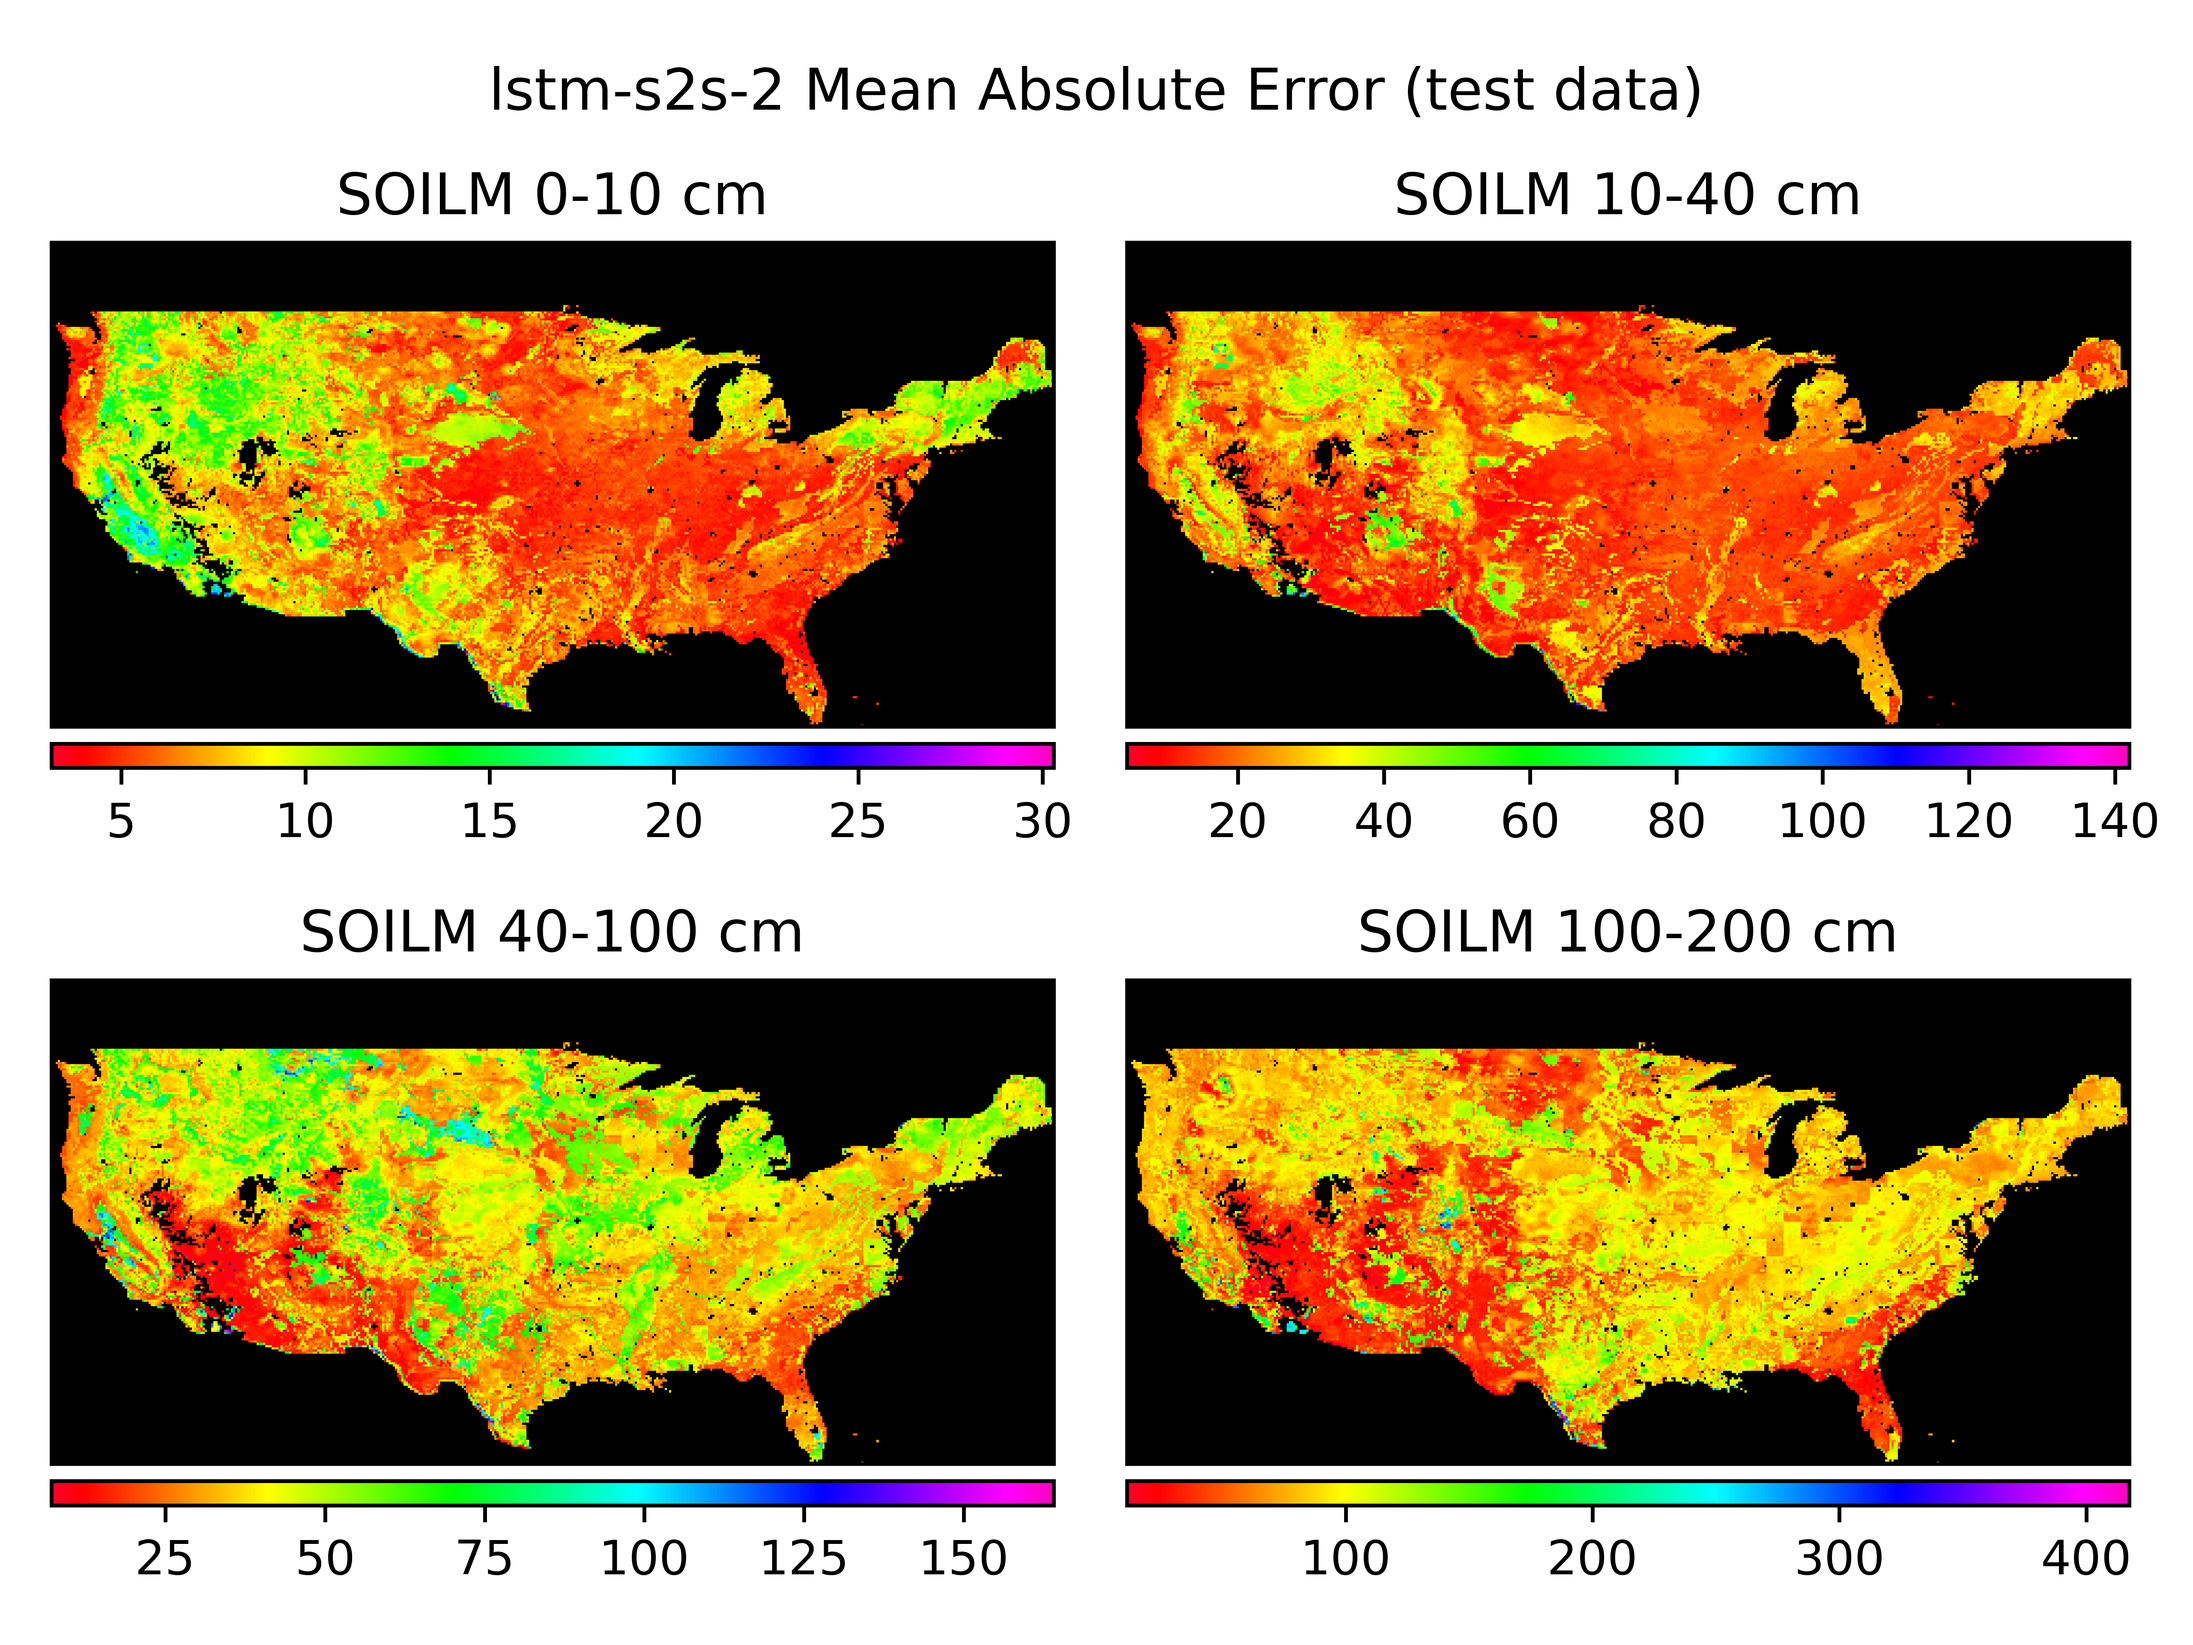
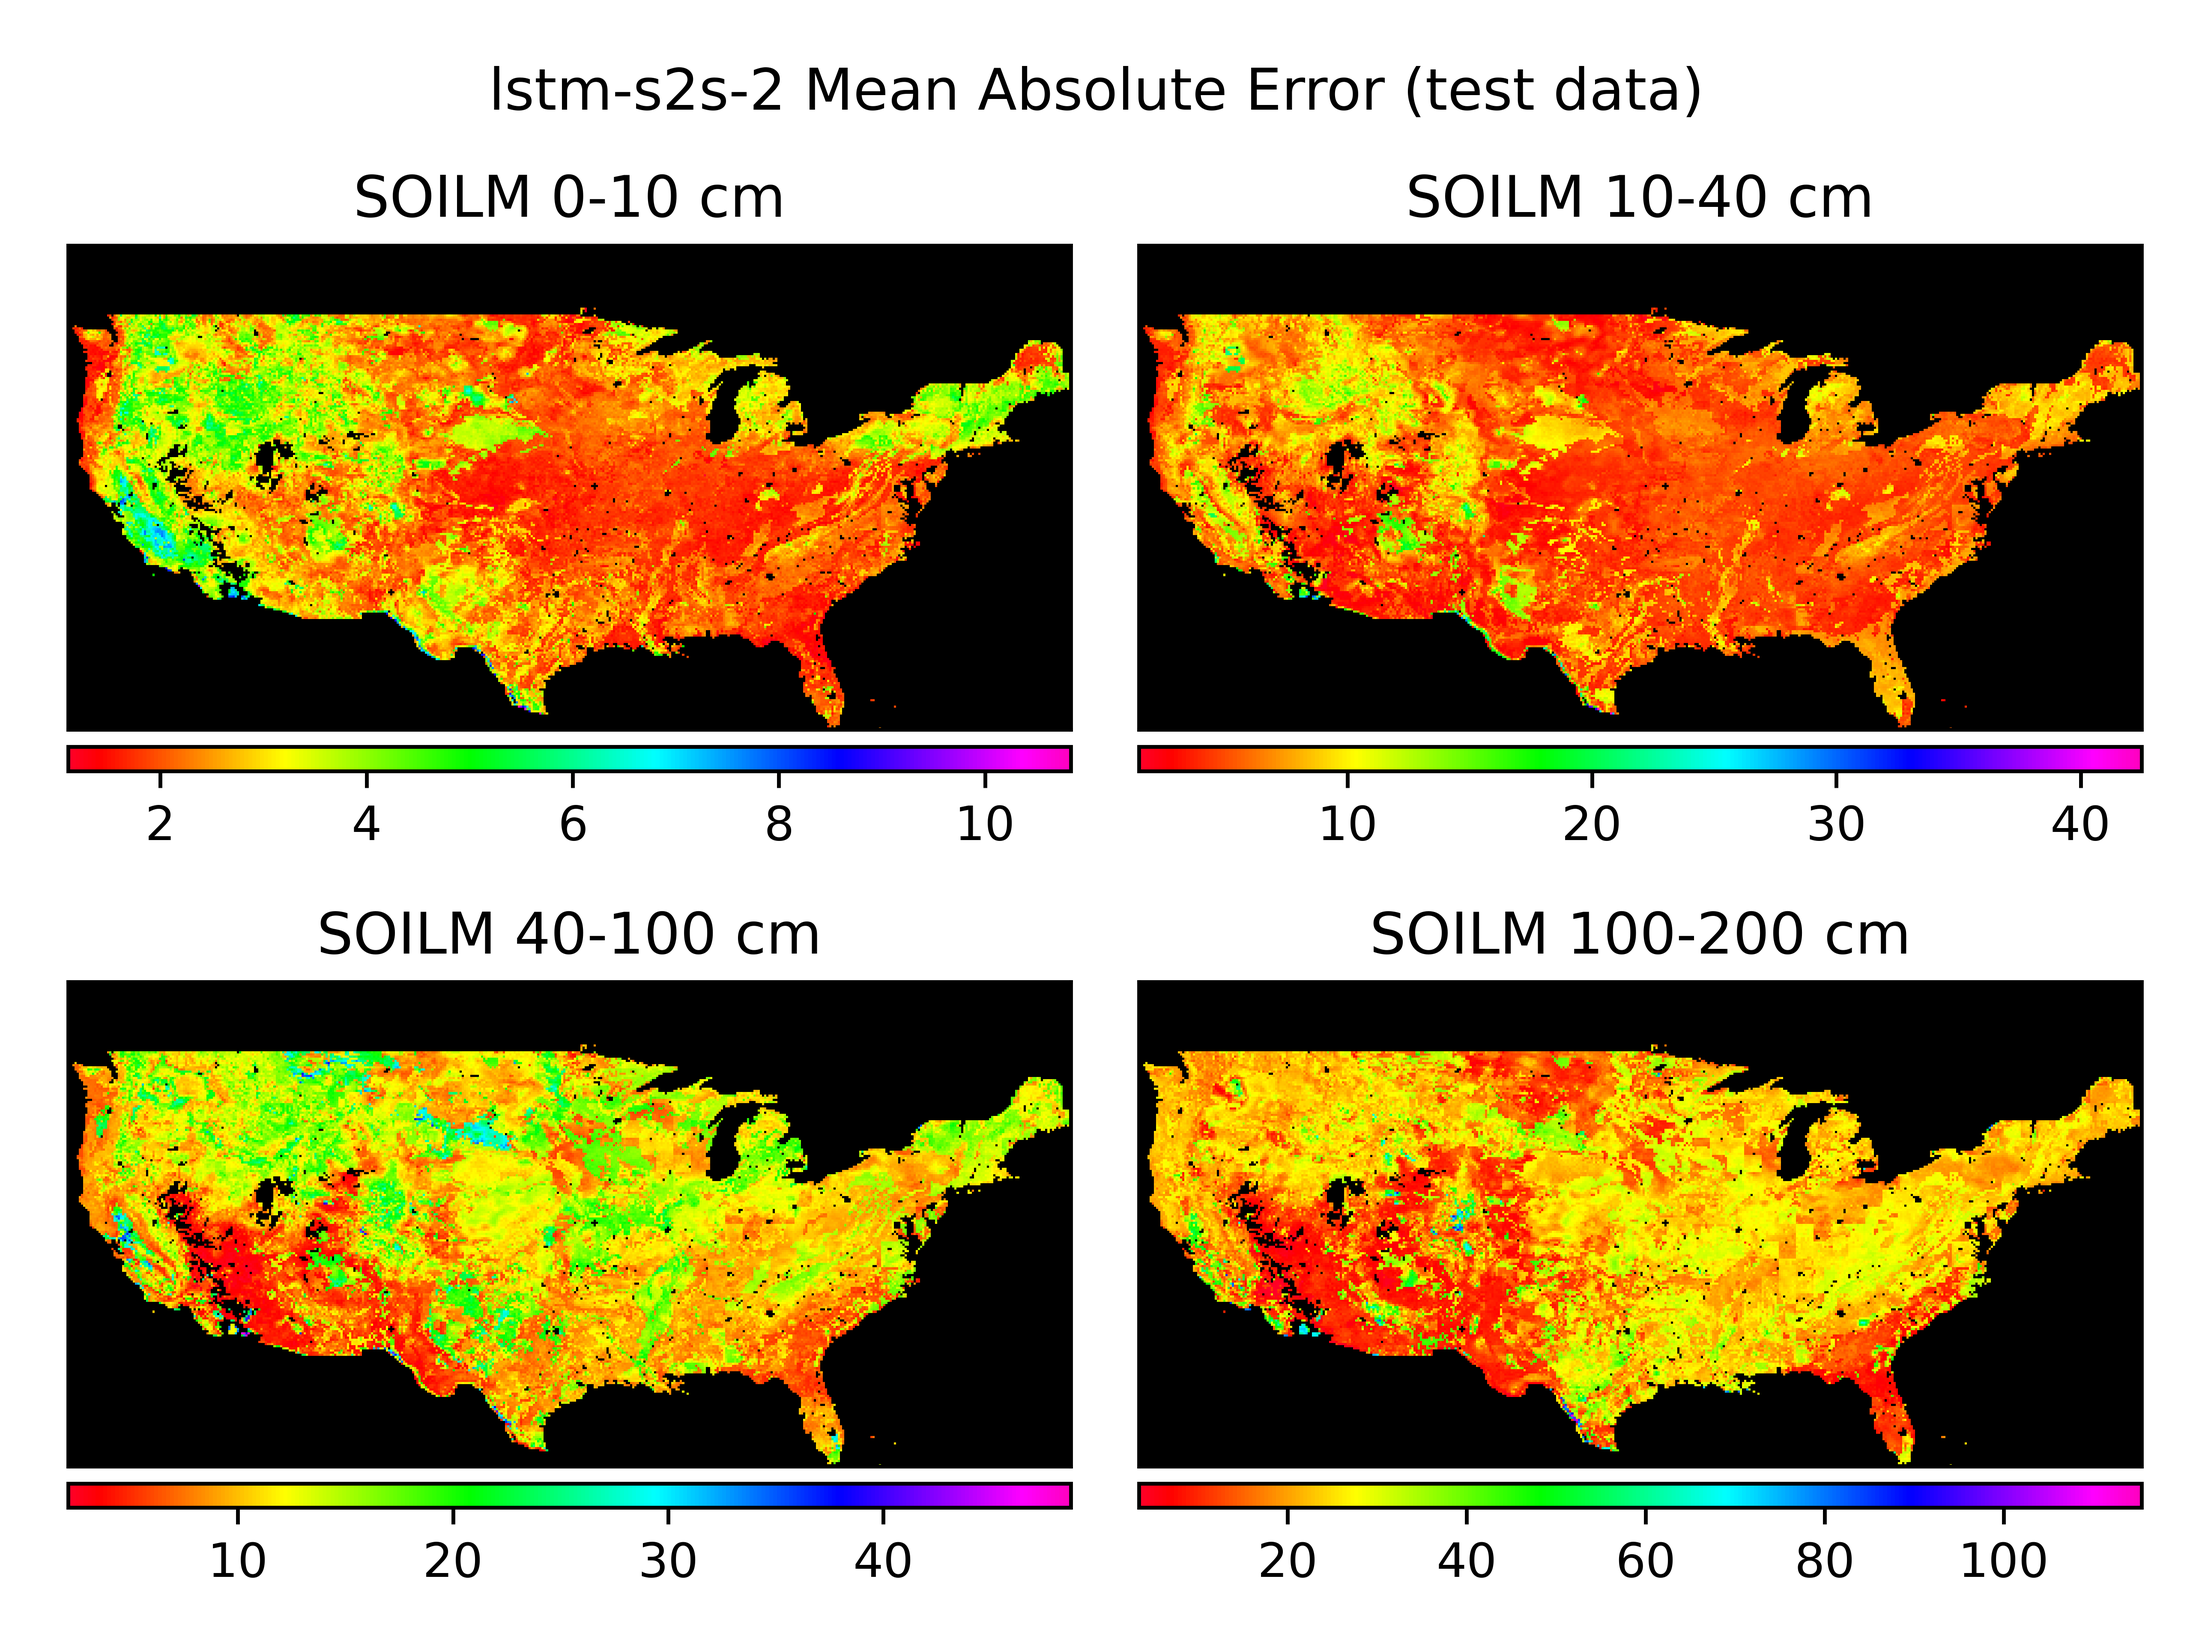
Final updates to plotting methods before presentation

diff --git a/plot_results.py b/plot_results.py
@@ -32,13 +32,14 @@ def plot_hist(hist_pkl:Path, fig_dir:Path=None, show:bool=False, title:str=""):
         c = cmap[i]
         ax[axids[i][0],axids[i][1]].plot(
                 domain[:,i], thist[i]/hist_sum, color=c, linewidth=1,
-                label="Actual")
+                label="true")
         ax[axids[i][0],axids[i][1]].plot(
                 domain[:,i], phist[i]/hist_sum, color="black",
-                linestyle="dashed", linewidth=2, label="predicted")
+                linestyle="dashed", linewidth=2, label="model")
         ax[axids[i][0],axids[i][1]].set_title("SOILM " + depth_labels[i])
         ax[axids[i][0],axids[i][1]].tick_params(
                 axis="y",left=False, right=False,labelleft=False)
+        ax[axids[i][0],axids[i][1]].legend()
     fig.tight_layout()
     if fig_dir:
         plt.savefig(fig_dir.joinpath(hist_pkl.stem+".png"), dpi=800)
@@ -58,13 +59,13 @@ def plot_grid_error(
         cmap = matplotlib.cm.gist_rainbow
         cmap.set_bad("black",1.)
         arr = np.ma.array(error[...,i], mask=np.isnan(error[...,i]))
-        im = ax[axids[0],axids[1]].imshow(arr, cmap=cmap)
-        div = make_axes_locatable(ax[axids[0],axids[1]])
+        im = ax[axids[i][0],axids[i][1]].imshow(arr, cmap=cmap)
+        div = make_axes_locatable(ax[axids[i][0],axids[i][1]])
         cax = div.append_axes("bottom",size="5%", pad=0.05)
         fig.colorbar(im, cax=cax, orientation="horizontal")
-        ax[axids[0],axids[1]].set_title("SOILM " + depth_labels[i])
-        ax[axids[0],axids[1]].axes.xaxis.set_visible(False)
-        ax[axids[0],axids[1]].axes.yaxis.set_visible(False)
+        ax[axids[i][0],axids[i][1]].set_title("SOILM " + depth_labels[i])
+        ax[axids[i][0],axids[i][1]].axes.xaxis.set_visible(False)
+        ax[axids[i][0],axids[i][1]].axes.yaxis.set_visible(False)
     fig.tight_layout()
     #plt.subplot
     if fig_dir:
@@ -265,16 +266,16 @@ if __name__ == "__main__":
     '''
 
 
-    #'''
+    '''
     """
     Plot gridded error files at 4 depth level from npy files generated by
     model_evaluate.get_grid_mae using a consecutive sample and prediction file
     """
-    error_file = data_dir.joinpath("grid_error/grid_mae_dense-1.npy")
+    #error_file = data_dir.joinpath("grid_error/grid_mae_dense-1.npy")
     #error_file = data_dir.joinpath("grid_error/grid_mae_lstm-rec-1.npy")
     #error_file = data_dir.joinpath("grid_error/grid_mae_lstm-s2s-2.npy")
     #error_file = data_dir.joinpath("grid_error/grid_mae_lstm-s2s-5.npy")
-    #error_file = data_dir.joinpath("grid_error/grid_mae_tcn-1.npy")
+    error_file = data_dir.joinpath("grid_error/grid_mae_tcn-1.npy")
     model_name = error_file.stem.split("_")[-1]
     plot_grid_error(
             error_file=error_file,
@@ -282,18 +283,18 @@ if __name__ == "__main__":
             fig_dir=fig_dir.joinpath("grid_error"),
             show=False,
             )
-    #'''
-
     '''
+
+    #'''
     """
     Plot depth-wise value histograms from pkl files generated by
     model_evaluate.get_histograms using a prediction file
     """
-    #hist_pkl = data_dir.joinpath("hists/hist_2018_dense-1.pkl")
+    hist_pkl = data_dir.joinpath("hists/hist_2018_dense-1.pkl")
     #hist_pkl = data_dir.joinpath("hists/hist_2018_lstm-rec-1.pkl")
     #hist_pkl = data_dir.joinpath("hists/hist_2018_lstm-s2s-2.pkl")
     #hist_pkl = data_dir.joinpath("hists/hist_2018_lstm-s2s-5.pkl")
-    hist_pkl = data_dir.joinpath("hists/hist_2018_tcn-1.pkl")
+    #hist_pkl = data_dir.joinpath("hists/hist_2018_tcn-1.pkl")
 
     model_name = hist_pkl.stem.split("_")[-1]
     plot_hist(
@@ -301,4 +302,4 @@ if __name__ == "__main__":
             title=f"{model_name} normalized value frequency (test data)",
             fig_dir=fig_dir.joinpath("hists"),
             )
-    '''
+    #'''
